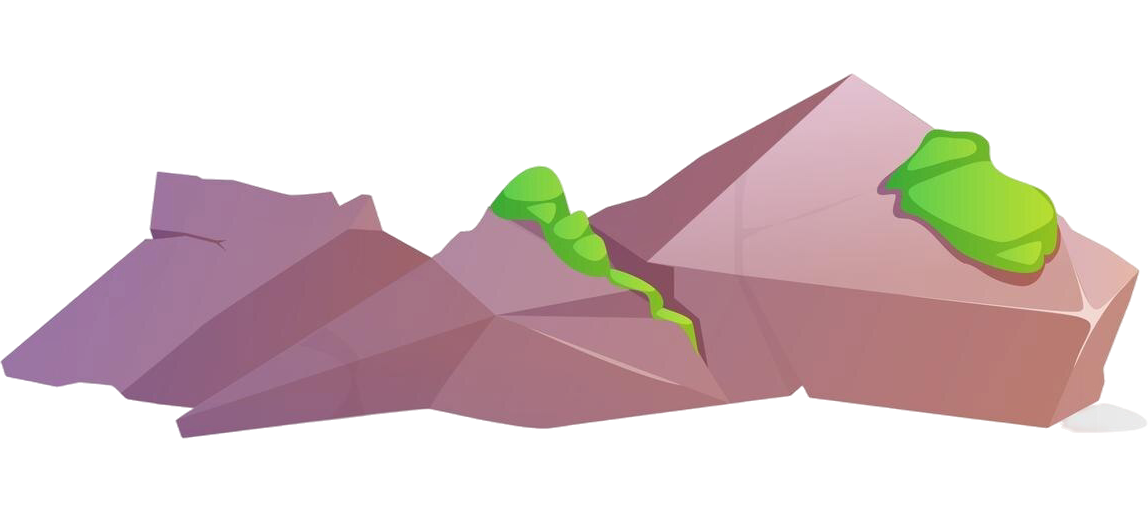
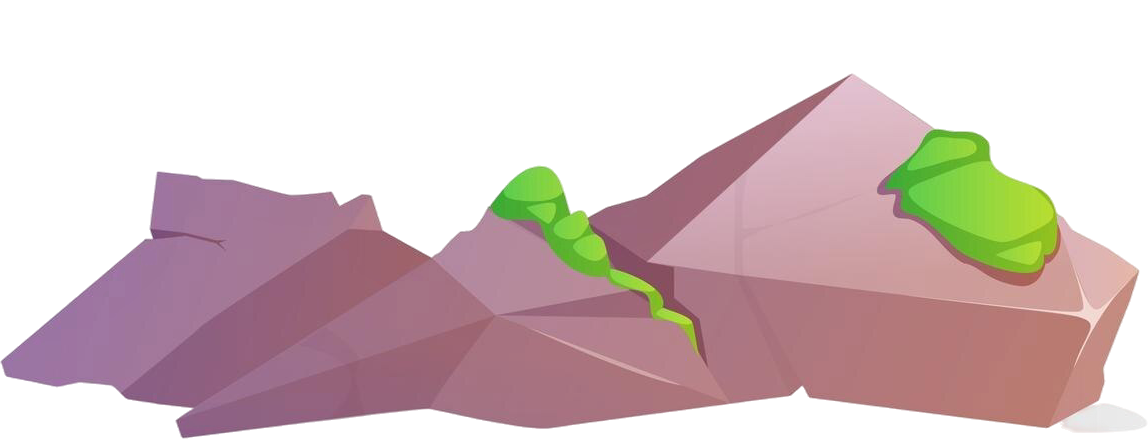
update skew 2.5 effect and shadows

diff --git a/src/game/controllers/createGroundAttackController.js b/src/game/controllers/createGroundAttackController.js
@@ -1,4 +1,4 @@
-import { Graphics } from 'pixi.js';
+import {Container, Graphics} from 'pixi.js';
 
 // In GroundAttack.js - Updated GroundAttackManager
 export class GroundAttackController {
@@ -58,11 +58,20 @@ export class GroundAttackController {
         return this.owner && this.owner.dead;
     }
 }
+
 export class GroundAttack {
     constructor(world, x, y, config = {}) {
         this.world = world;
+
+        // ✅ CHANGE 1: Create container and move graphics into it
+        this.container = new Container();
         this.g = new Graphics();
-        world.addChild(this.g);
+
+        this.container.addChild(this.g);
+        this.world.addChild(this.container);
+
+        // ✅ CHANGE 2: Apply squash effect (add this line)
+        this.container.scale.set(1, 0.6);  // squash vertically
 
         // Position
         this.x = x;
@@ -123,12 +132,16 @@ export class GroundAttack {
             }
         }
 
+        // ✅ CHANGE 3: Position the container
+        this.container.x = this.x;
+        this.container.y = this.y;
+
         this.timer++;
         this.g.clear();
 
         const progress = Math.min(1, this.timer / this.config.warningDuration);
 
-        // Draw based on shape
+        // Draw based on shape (using 0,0 local coordinates)
         switch(this.config.shape) {
             case 'circle':
                 this._drawCircle(progress);
@@ -166,27 +179,28 @@ export class GroundAttack {
         const R = this.config.radius;
         const waveRadius = R * progress;
 
-        this.g.circle(this.x, this.y, R)
+        // ✅ CHANGE 4: Use 0,0 instead of this.x, this.y
+        this.g.circle(0, 0, R)
             .stroke({
                 color: this.config.warningColor,
                 alpha: 0.6 + Math.sin(this.timer * 0.2) * 0.3,
                 width: 3
             });
 
-        this.g.circle(this.x, this.y, R - 2)
+        this.g.circle(0, 0, R - 2)
             .fill({ color: this.config.warningColor, alpha: 0.1 });
 
-        this.g.circle(this.x, this.y, waveRadius)
+        this.g.circle(0, 0, waveRadius)
             .stroke({ color: this.config.color, alpha: 0.9, width: 4 });
 
-        this.g.circle(this.x, this.y, waveRadius - 3)
+        this.g.circle(0, 0, waveRadius - 3)
             .stroke({ color: this.config.innerColor, alpha: 0.7, width: 2 });
 
         const particleCount = Math.min(12, Math.floor(progress * 20));
         for (let i = 0; i < particleCount; i++) {
             const angle = (i / particleCount) * Math.PI * 2 + this.timer * 0.1;
-            const x = this.x + Math.cos(angle) * waveRadius;
-            const y = this.y + Math.sin(angle) * waveRadius;
+            const x = Math.cos(angle) * waveRadius;
+            const y = Math.sin(angle) * waveRadius;
             this.g.circle(x, y, 2).fill({ color: this.config.color, alpha: 0.8 });
         }
     }
@@ -197,26 +211,27 @@ export class GroundAttack {
         const waveProgress = progress;
         const borderOffset = Math.min(w/2, h/2) * waveProgress;
 
-        this.g.rect(this.x - w/2, this.y - h/2, w, h)
+        // ✅ CHANGE 5: Use 0,0 as center
+        this.g.rect(-w/2, -h/2, w, h)
             .stroke({
                 color: this.config.warningColor,
                 alpha: 0.6 + Math.sin(this.timer * 0.2) * 0.3,
                 width: 3
             });
 
-        this.g.rect(this.x - w/2 + 2, this.y - h/2 + 2, w - 4, h - 4)
+        this.g.rect(-w/2 + 2, -h/2 + 2, w - 4, h - 4)
             .fill({ color: this.config.warningColor, alpha: 0.1 });
 
         this.g.rect(
-            this.x - w/2 + borderOffset,
-            this.y - h/2 + borderOffset,
+            -w/2 + borderOffset,
+            -h/2 + borderOffset,
             w - borderOffset * 2,
             h - borderOffset * 2
         ).stroke({ color: this.config.color, alpha: 0.9, width: 4 });
 
         this.g.rect(
-            this.x - w/2 + borderOffset + 2,
-            this.y - h/2 + borderOffset + 2,
+            -w/2 + borderOffset + 2,
+            -h/2 + borderOffset + 2,
             w - borderOffset * 2 - 4,
             h - borderOffset * 2 - 4
         ).stroke({ color: this.config.innerColor, alpha: 0.7, width: 2 });
@@ -230,29 +245,30 @@ export class GroundAttack {
         const endAngle = angle + arcAngle/2;
         const waveRadius = R * progress;
 
-        this.g.moveTo(this.x, this.y);
+        // ✅ CHANGE 6: Use 0,0 as center
+        this.g.moveTo(0, 0);
         for (let a = startAngle; a <= endAngle; a += 0.05) {
-            const x = this.x + Math.cos(a) * R;
-            const y = this.y + Math.sin(a) * R;
+            const x = Math.cos(a) * R;
+            const y = Math.sin(a) * R;
             this.g.lineTo(x, y);
         }
         this.g.closePath();
         this.g.stroke({ color: this.config.warningColor, alpha: 0.6, width: 3 });
         this.g.fill({ color: this.config.warningColor, alpha: 0.1 });
 
-        this.g.moveTo(this.x, this.y);
+        this.g.moveTo(0, 0);
         for (let a = startAngle; a <= endAngle; a += 0.05) {
-            const x = this.x + Math.cos(a) * waveRadius;
-            const y = this.y + Math.sin(a) * waveRadius;
+            const x = Math.cos(a) * waveRadius;
+            const y = Math.sin(a) * waveRadius;
             this.g.lineTo(x, y);
         }
         this.g.closePath();
         this.g.stroke({ color: this.config.color, alpha: 0.9, width: 4 });
 
-        this.g.moveTo(this.x, this.y);
+        this.g.moveTo(0, 0);
         for (let a = startAngle; a <= endAngle; a += 0.05) {
-            const x = this.x + Math.cos(a) * (waveRadius - 3);
-            const y = this.y + Math.sin(a) * (waveRadius - 3);
+            const x = Math.cos(a) * (waveRadius - 3);
+            const y = Math.sin(a) * (waveRadius - 3);
             this.g.lineTo(x, y);
         }
         this.g.closePath();
@@ -265,14 +281,15 @@ export class GroundAttack {
         const halfLength = w / 2;
         const waveOffset = halfLength * progress;
 
-        const startX = this.x - Math.cos(angle) * halfLength;
-        const startY = this.y - Math.sin(angle) * halfLength;
-        const endX = this.x + Math.cos(angle) * halfLength;
-        const endY = this.y + Math.sin(angle) * halfLength;
-        const waveStartX = this.x - Math.cos(angle) * waveOffset;
-        const waveStartY = this.y - Math.sin(angle) * waveOffset;
-        const waveEndX = this.x + Math.cos(angle) * waveOffset;
-        const waveEndY = this.y + Math.sin(angle) * waveOffset;
+        // ✅ CHANGE 7: Use 0,0 as center
+        const startX = -Math.cos(angle) * halfLength;
+        const startY = -Math.sin(angle) * halfLength;
+        const endX = Math.cos(angle) * halfLength;
+        const endY = Math.sin(angle) * halfLength;
+        const waveStartX = -Math.cos(angle) * waveOffset;
+        const waveStartY = -Math.sin(angle) * waveOffset;
+        const waveEndX = Math.cos(angle) * waveOffset;
+        const waveEndY = Math.sin(angle) * waveOffset;
 
         this.g.moveTo(startX, startY).lineTo(endX, endY)
             .stroke({ color: this.config.warningColor, alpha: 0.6, width: 8 });
@@ -289,27 +306,29 @@ export class GroundAttack {
         const h = this.config.height;
         const borderOffset = Math.min(w/2, h/2) * progress;
 
-        this.g.rect(this.x - w/2, this.y - 15, w, 30)
+        // ✅ CHANGE 8: Use 0,0 as center
+        this.g.rect(-w/2, -15, w, 30)
             .stroke({ color: this.config.warningColor, alpha: 0.6, width: 3 });
-        this.g.rect(this.x - 15, this.y - h/2, 30, h)
+        this.g.rect(-15, -h/2, 30, h)
             .stroke({ color: this.config.warningColor, alpha: 0.6, width: 3 });
 
         this.g.rect(
-            this.x - w/2 + borderOffset,
-            this.y - 15 + borderOffset * 0.3,
+            -w/2 + borderOffset,
+            -15 + borderOffset * 0.3,
             w - borderOffset * 2,
             30 - borderOffset * 0.6
         ).stroke({ color: this.config.color, alpha: 0.9, width: 4 });
 
         this.g.rect(
-            this.x - 15 + borderOffset * 0.3,
-            this.y - h/2 + borderOffset,
+            -15 + borderOffset * 0.3,
+            -h/2 + borderOffset,
             30 - borderOffset * 0.6,
             h - borderOffset * 2
         ).stroke({ color: this.config.color, alpha: 0.9, width: 4 });
     }
 
     _checkHit(px, py) {
+        // ✅ Hit detection stays EXACTLY the same (uses world coordinates)
         switch(this.config.shape) {
             case 'circle': {
                 const dist = Math.hypot(px - this.x, py - this.y);
@@ -368,9 +387,10 @@ export class GroundAttack {
     }
 
     destroy() {
-        if (this.g && !this.g.destroyed) {
-            if (this.g.parent) this.g.parent.removeChild(this.g);
-            this.g.destroy();
+        // ✅ CHANGE 9: Destroy the container (which destroys the graphics too)
+        if (this.container && !this.container.destroyed) {
+            if (this.container.parent) this.container.parent.removeChild(this.container);
+            this.container.destroy({ children: true });
         }
     }
 }

diff --git a/src/game/world/PropManager.js b/src/game/world/PropManager.js
@@ -183,18 +183,32 @@ export class PropManager {
 
                 shadow.anchor.set(0.5, 0.5);
 
-                shadow.x = propVisual.x;
-                shadow.y = propVisual.y;
+                const heightFactor = Math.min(1.5, propVisual.height / 120);
 
-                shadow.scale.set(scale, -scale);
+                console.log(heightFactor);
+                // normalize size influence
+
+                // 👇 direction (bottom-left)
+                const BASE_OFFSET_X = -25;
+                const BASE_OFFSET_Y = -0 * heightFactor ;
+
+                shadow.x = propVisual.x + BASE_OFFSET_X * (1 + heightFactor);
+                shadow.y = propVisual.y + BASE_OFFSET_Y;
+
+                // 👇 flatten vertically (ground contact)
+                shadow.scale.set(
+                    scale * 1.0,
+                    -scale * (0.4 + heightFactor * 0.2)
+                );
+
+                // 👇 THIS is the key: increase skew with height
+                shadow.skew.x = -0.3 - heightFactor * 0.4;
 
                 shadow.tint = 0x000000;
-                shadow.alpha = 0.15;
-
+                shadow.alpha = 0.12;
 
                 shadowContainer.addChild(shadow);
             }
-
             // ✅ FIX 3: Create collider synchronously
             if (propType.collision) {
                 const scale = 0.85; // 85% of visual size
